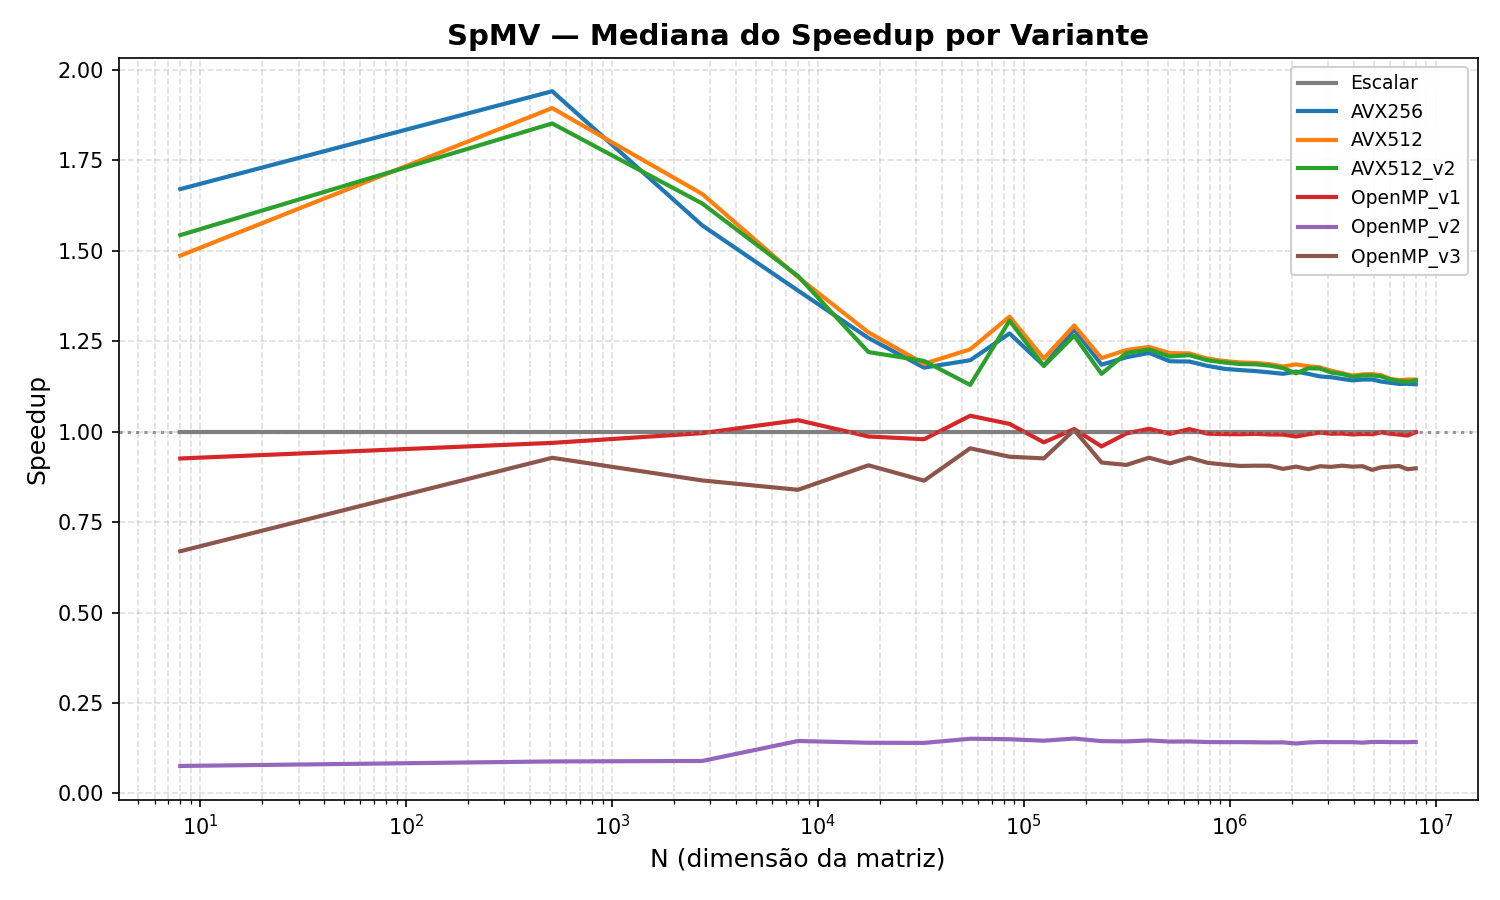
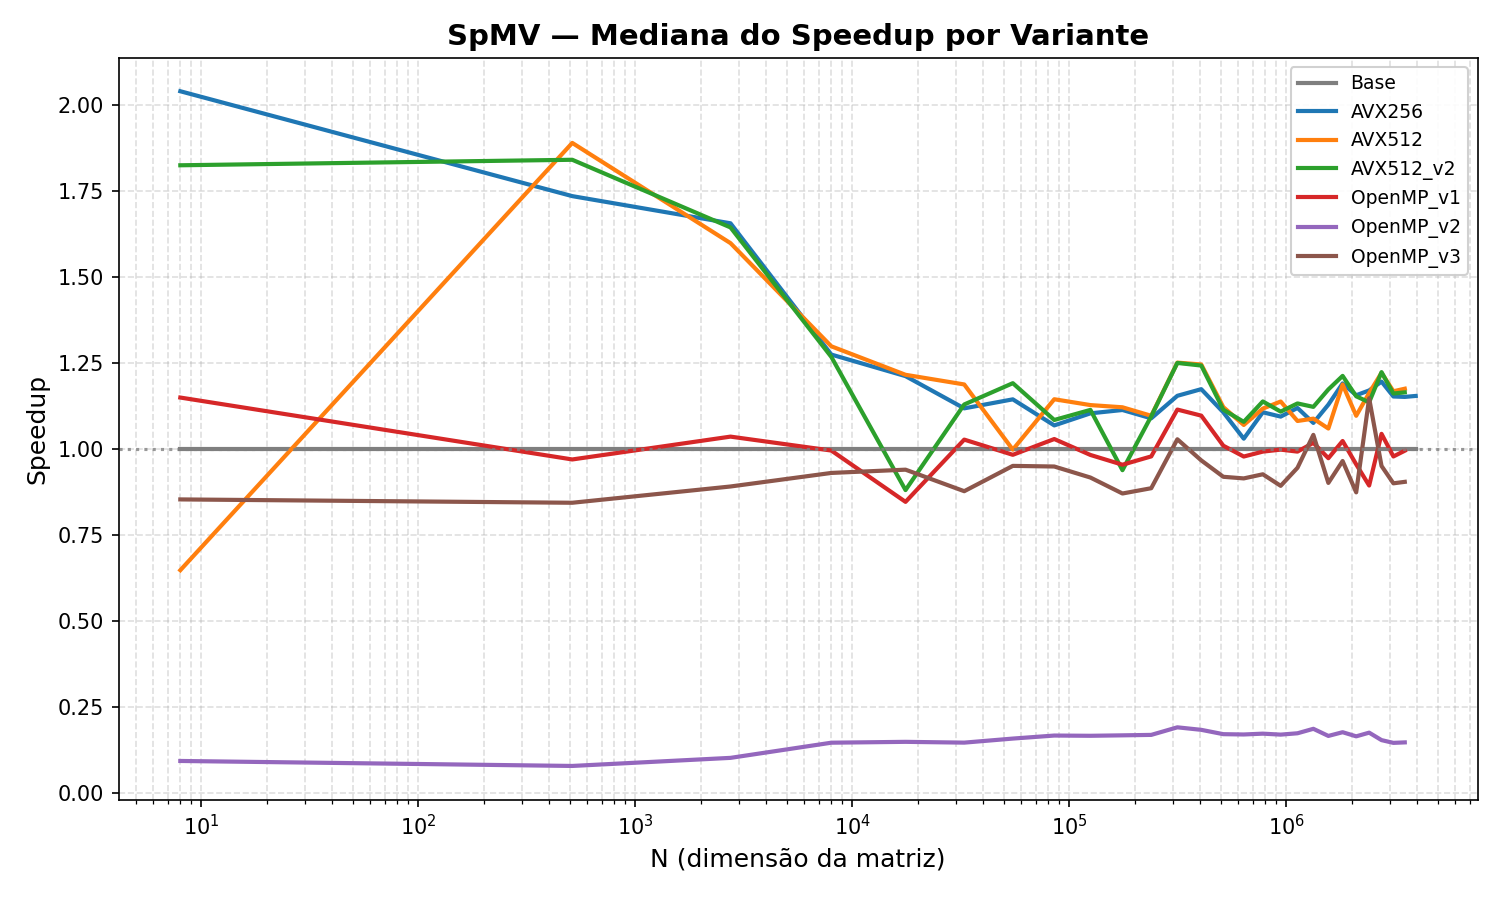
Refactor and optimize matrix-vector multiplication implementation
- Updated include directives to use angle brackets for standard headers.
- Removed unused AVX512 vectorization functions and added a placeholder for a new Highway-based implementation in `bc_matvec.cpp`.
- Adjusted function declarations in header files to reflect the removal of deprecated functions and the addition of the new Highway function.
- Updated benchmark and plotting scripts to reflect changes in function names and categories.
- Ensured consistent formatting and comments throughout the codebase for better readability.

diff --git a/libs/bc_matvec/bc_matvec.cpp b/libs/bc_matvec/bc_matvec.cpp
@@ -1,4 +1,4 @@
-#include "bc_matvec.h"
+#include <bc_matvec.h>
 
 void bc_matvec(const BlockedCSR * __restrict__ A, const double * __restrict__ x, double * __restrict__ y) {
     int bs = A->bs;
@@ -275,153 +275,6 @@ void bc_matvec_avx512_v2(const BlockedCSR * __restrict__ A, const double * __res
     }
 }
 
-void bc_matvec_avx512_v3(const BlockedCSR * __restrict__ A, const double * __restrict__ x, double * __restrict__ y) {
-    int bs = A->bs; // = 3 neste caso
-
-    for (int i = 0; i < A->nb * bs; i++) {
-        y[i] = 0.0;
-    }
-
-    // Índices de permutação para replicar os elementos de x
-    // [x0, x1, x2, x0, x1, x2, x0, x1]
-    __m512i perm_idx = _mm512_set_epi64(1, 0, 2, 1, 0, 2, 1, 0);
-
-    for (int brow = 0; brow < A->nb; brow++) {
-        int row_start = A->ia[brow];
-        int row_end   = A->ia[brow+1];
-
-        double *yrow = &y[(size_t)brow * bs];
-
-        __m512d acc = _mm512_setzero_pd();
-        double y2_extra = 0.0;
-
-        int p;
-
-        for (p = row_start; p + 1 < row_end; p += 2) {
-            int bcol = A->ja[p];
-            const double *blk0 = &A->vals[(size_t)p * bs * bs];
-            const double *blk1 = &A->vals[(size_t)(p+1) * bs * bs];
-            const double *xcol0 = &x[(size_t)A->ja[p] * bs];
-            const double *xcol1 = &x[(size_t)A->ja[p+1] * bs];
-
-            __m512d vb0 = _mm512_loadu_pd(blk0);
-            __m512d vb1 = _mm512_loadu_pd(blk1);
-
-            __m256d vx0_256 = _mm256_maskz_loadu_pd(0x7, xcol0);
-            __m256d vx1_256 = _mm256_maskz_loadu_pd(0x7, xcol1);
-
-            __m512d vx0 = _mm512_broadcast_f64x4(vx0_256);
-            __m512d vx1 = _mm512_broadcast_f64x4(vx1_256);
-
-            vx0 = _mm512_permutexvar_pd(perm_idx, vx0);
-            vx1 = _mm512_permutexvar_pd(perm_idx, vx1);
-
-            acc = _mm512_fmadd_pd(vb0, vx0, acc);
-            acc = _mm512_fmadd_pd(vb1, vx1, acc);
-
-            y2_extra += blk0[8] * xcol0[2];
-            y2_extra += blk1[8] * xcol1[2];
-        }
-
-        // Processa bloco restante se houver
-        for (; p < row_end; p++) {
-            const double *blk = &A->vals[(size_t)p * bs * bs];
-            const double *xcol = &x[(size_t)A->ja[p] * bs];
-
-            __m512d vb = _mm512_loadu_pd(blk);
-
-            __m256d vx_256 = _mm256_maskz_loadu_pd(0x7, xcol);
-
-            __m512d vx = _mm512_broadcast_f64x4(vx_256);
-            vx = _mm512_permutexvar_pd(perm_idx, vx);
-
-            acc = _mm512_fmadd_pd(vb, vx, acc);
-
-            y2_extra += blk[8] * xcol[2];
-        }
-
-        double tmp[8];
-        _mm512_storeu_pd(tmp, acc);
-
-        yrow[0] = tmp[0] + tmp[1] + tmp[2];
-        yrow[1] = tmp[3] + tmp[4] + tmp[5];
-        yrow[2] = tmp[6] + tmp[7] + y2_extra;
-    }
+void bc_matvec_hwy(const BlockedCSR * __restrict__ A, const double * __restrict__ x, double * __restrict__ y) {
+    // TODO: Implementar versão usando Highway
 }
-
-void bc_matvec_avx512_v4(const BlockedCSR * __restrict__ A, const double * __restrict__ x, double * __restrict__ y){
-    const int bs = A->bs;
-
-    const __mmask8 mask_x0 = 0b01001001; // posições de x0
-    const __mmask8 mask_x1 = 0b10010010; // posições de x1
-    const __mmask8 mask_x2 = 0b00100100; // posições de x2
-
-    for (int brow = 0; brow < A->nb; brow++) {
-
-        int row_start = A->ia[brow];
-        int row_end   = A->ia[brow+1];
-
-        double *yrow = &y[(size_t)brow * bs];
-
-        __m512d acc = _mm512_setzero_pd();
-        double y2_extra = 0.0;
-
-        int p;
-
-        for (p = row_start; p + 1 < row_end; p += 2) {
-            const double *blk0 = &A->vals[(size_t)p * bs * bs];
-            const double *blk1 = &A->vals[(size_t)(p+1) * bs * bs];
-
-            const double *xcol0 = &x[(size_t)A->ja[p] * bs];
-            const double *xcol1 = &x[(size_t)A->ja[p+1] * bs];
-
-            __m512d vb0 = _mm512_loadu_pd(blk0);
-            __m512d vb1 = _mm512_loadu_pd(blk1);
-
-            __m512d x0 = _mm512_set1_pd(xcol0[0]);
-            __m512d x1 = _mm512_set1_pd(xcol0[1]);
-            __m512d x2 = _mm512_set1_pd(xcol0[2]);
-
-            acc = _mm512_mask_fmadd_pd(acc, mask_x0, vb0, x0);
-            acc = _mm512_mask_fmadd_pd(acc, mask_x1, vb0, x1);
-            acc = _mm512_mask_fmadd_pd(acc, mask_x2, vb0, x2);
-
-            __m512d x0b = _mm512_set1_pd(xcol1[0]);
-            __m512d x1b = _mm512_set1_pd(xcol1[1]);
-            __m512d x2b = _mm512_set1_pd(xcol1[2]);
-
-            acc = _mm512_mask_fmadd_pd(acc, mask_x0, vb1, x0b);
-            acc = _mm512_mask_fmadd_pd(acc, mask_x1, vb1, x1b);
-            acc = _mm512_mask_fmadd_pd(acc, mask_x2, vb1, x2b);
-
-            y2_extra += blk0[bs * bs - 1] * xcol0[2];
-            y2_extra += blk1[bs * bs - 1] * xcol1[2];
-        }
-
-        for (; p < row_end; p++) {
-
-            const double *blk = &A->vals[(size_t)p * bs * bs];
-            const double *xcol = &x[(size_t)A->ja[p] * bs];
-
-            __m512d vb = _mm512_loadu_pd(blk);
-
-            __m512d x0 = _mm512_set1_pd(xcol[0]);
-            __m512d x1 = _mm512_set1_pd(xcol[1]);
-            __m512d x2 = _mm512_set1_pd(xcol[2]);
-
-            acc = _mm512_mask_fmadd_pd(acc, mask_x0, vb, x0);
-            acc = _mm512_mask_fmadd_pd(acc, mask_x1, vb, x1);
-            acc = _mm512_mask_fmadd_pd(acc, mask_x2, vb, x2);
-
-            y2_extra += blk[8] * xcol[2];
-        }
-
-        double tmp[8];
-        _mm512_storeu_pd(tmp, acc);
-
-        yrow[0] = tmp[0] + tmp[1] + tmp[2];
-        yrow[1] = tmp[3] + tmp[4] + tmp[5];
-        yrow[2] = tmp[6] + tmp[7] + y2_extra;
-    }
-}
-

diff --git a/libs/bc_matvec/bc_matvec.h b/libs/bc_matvec/bc_matvec.h
@@ -2,12 +2,15 @@
 
 #include <stdlib.h>
 #include <immintrin.h>
-#include "bcsr.h"
+#include <hwy/highway.h>
+#include <bcsr.h>
 
-#define MASK_ZERO_SLOT_3 0x8 // 0b1000 (big endian) | 0b0001 (little endian)
+#define MASK_ZERO_SLOT_3 0x8  // 0b1000
 #define MASK_SUM_FIRST_3 0x07 // 0b00000111
 #define MASK_SUM_MID_3   0x38 // 0b00111000
 #define MASK_SUM_LAST_2  0xC0 // 0b11000000
+
+namespace hn = hwy::HWY_NAMESPACE;
 
 void bc_matvec(const BlockedCSR * __restrict__ A, const double * __restrict__ x, double * __restrict__ y);
 void bc_matvec_omp_v1(const BlockedCSR * __restrict__ A, const double * __restrict__ x, double * __restrict__ y);
@@ -17,5 +20,4 @@ static double hadd_256(__m256d v);
 void bc_matvec_avx256(const BlockedCSR * __restrict__ A, const double * __restrict__ x, double * __restrict__ y);
 void bc_matvec_avx512(const BlockedCSR * __restrict__ A, const double * __restrict__ x, double * __restrict__ y);
 void bc_matvec_avx512_v2(const BlockedCSR * __restrict__ A, const double * __restrict__ x, double * __restrict__ y);
-void bc_matvec_avx512_v3(const BlockedCSR * __restrict__ A, const double * __restrict__ x, double * __restrict__ y);
-void bc_matvec_avx512_v4(const BlockedCSR * __restrict__ A, const double * __restrict__ x, double * __restrict__ y);
+void bc_matvec_hwy(const BlockedCSR * __restrict__ A, const double * __restrict__ x, double * __restrict__ y);

diff --git a/libs/bcsr/bcsr.h b/libs/bcsr/bcsr.h
@@ -5,12 +5,12 @@
 #include <stdlib.h>
 
 struct BlockedCSR {
-   int nb;      // número de "block rows" (nós)
-   int bs;      // block size vamos usar 3 
-   int nnzb;    // número de blocos não nulos
-   int *ia;     // tamanho nb+1, índice inicial de cada block-row em ja/vals
-   int *ja;     // tamanho nnzb, coluna (block index) de cada bloco
-   double *vals;// tamanho nnzb * bs * bs, blocos armazenados consecutivamente em row-major dentro do bloco
+   int nb;       // número de "block rows" (nós)
+   int bs;       // block size vamos usar 3 
+   int nnzb;     // número de blocos não nulos
+   int *ia;      // tamanho nb+1, índice inicial de cada block-row em ja/vals
+   int *ja;      // tamanho nnzb, coluna (block index) de cada bloco
+   double *vals; // tamanho nnzb * bs * bs, blocos armazenados consecutivamente em row-major dentro do bloco
 };
 
 BlockedCSR *bc_alloc(int nb, int bs, int max_nblocks);

diff --git a/libs/benchmarks/spmv/spmv_benchmarks.h b/libs/benchmarks/spmv/spmv_benchmarks.h
@@ -10,8 +10,8 @@
 #include <sys/stat.h>
 #include <limits.h>
 #include <unistd.h>
-#include "bcsr.h"
-#include "bc_matvec.h"
+#include <bcsr.h>
+#include <bc_matvec.h>
 
 
 using matvec_func_t = void (*)(const BlockedCSR * __restrict__, const double * __restrict__, double * __restrict__);
@@ -34,7 +34,7 @@ class SpmvBenchmark {
         std::vector<double> gs_median;
         int gs_count = 0;
         const std::vector<MatvecVariant> variants = {
-            {"Escalar",   bc_matvec},
+            {"Base",      bc_matvec},
             {"AVX256",    bc_matvec_avx256},
             {"AVX512",    bc_matvec_avx512},
             {"AVX512_v2", bc_matvec_avx512_v2},

diff --git a/src/main.cpp b/src/main.cpp
@@ -1,6 +1,6 @@
 #include <iostream>
-#include "bcsr.h"
-#include "spmv_benchmarks.h"
+#include <bcsr.h>
+#include <spmv_benchmarks.h>
 
 int main(int argc, char **argv) {
     if (argc != 6) {

diff --git a/plots/spmv_speedup.py b/plots/spmv_speedup.py
@@ -4,7 +4,7 @@ import numpy as np
 import os
 
 COLORS = {
-    "Escalar": "#7f7f7f",
+    "Base": "#7f7f7f",
     "AVX256": "#1f77b4",
     "AVX512": "#ff7f0e",
     "AVX512_v2": "#2ca02c",

diff --git a/libs/bcsr/bcsr.cpp b/libs/bcsr/bcsr.cpp
@@ -1,4 +1,4 @@
-#include "bcsr.h"
+#include <bcsr.h>
 
 BlockedCSR *bc_alloc(int nb, int bs, int max_nblocks) {
     BlockedCSR *A = (BlockedCSR *)malloc(sizeof(BlockedCSR));

diff --git a/demos/highway_vector_sum.cpp b/demos/highway_vector_sum.cpp
@@ -1,5 +1,5 @@
 #include <cstdio>
-#include "hwy/highway.h"
+#include <hwy/highway.h>
 
 namespace hn = hwy::HWY_NAMESPACE;
 

diff --git a/libs/benchmarks/spmv/spmv_benchmarks.cpp b/libs/benchmarks/spmv/spmv_benchmarks.cpp
@@ -1,4 +1,4 @@
-#include "spmv_benchmarks.h"
+#include <spmv_benchmarks.h>
 
 
 static double wtime() {
